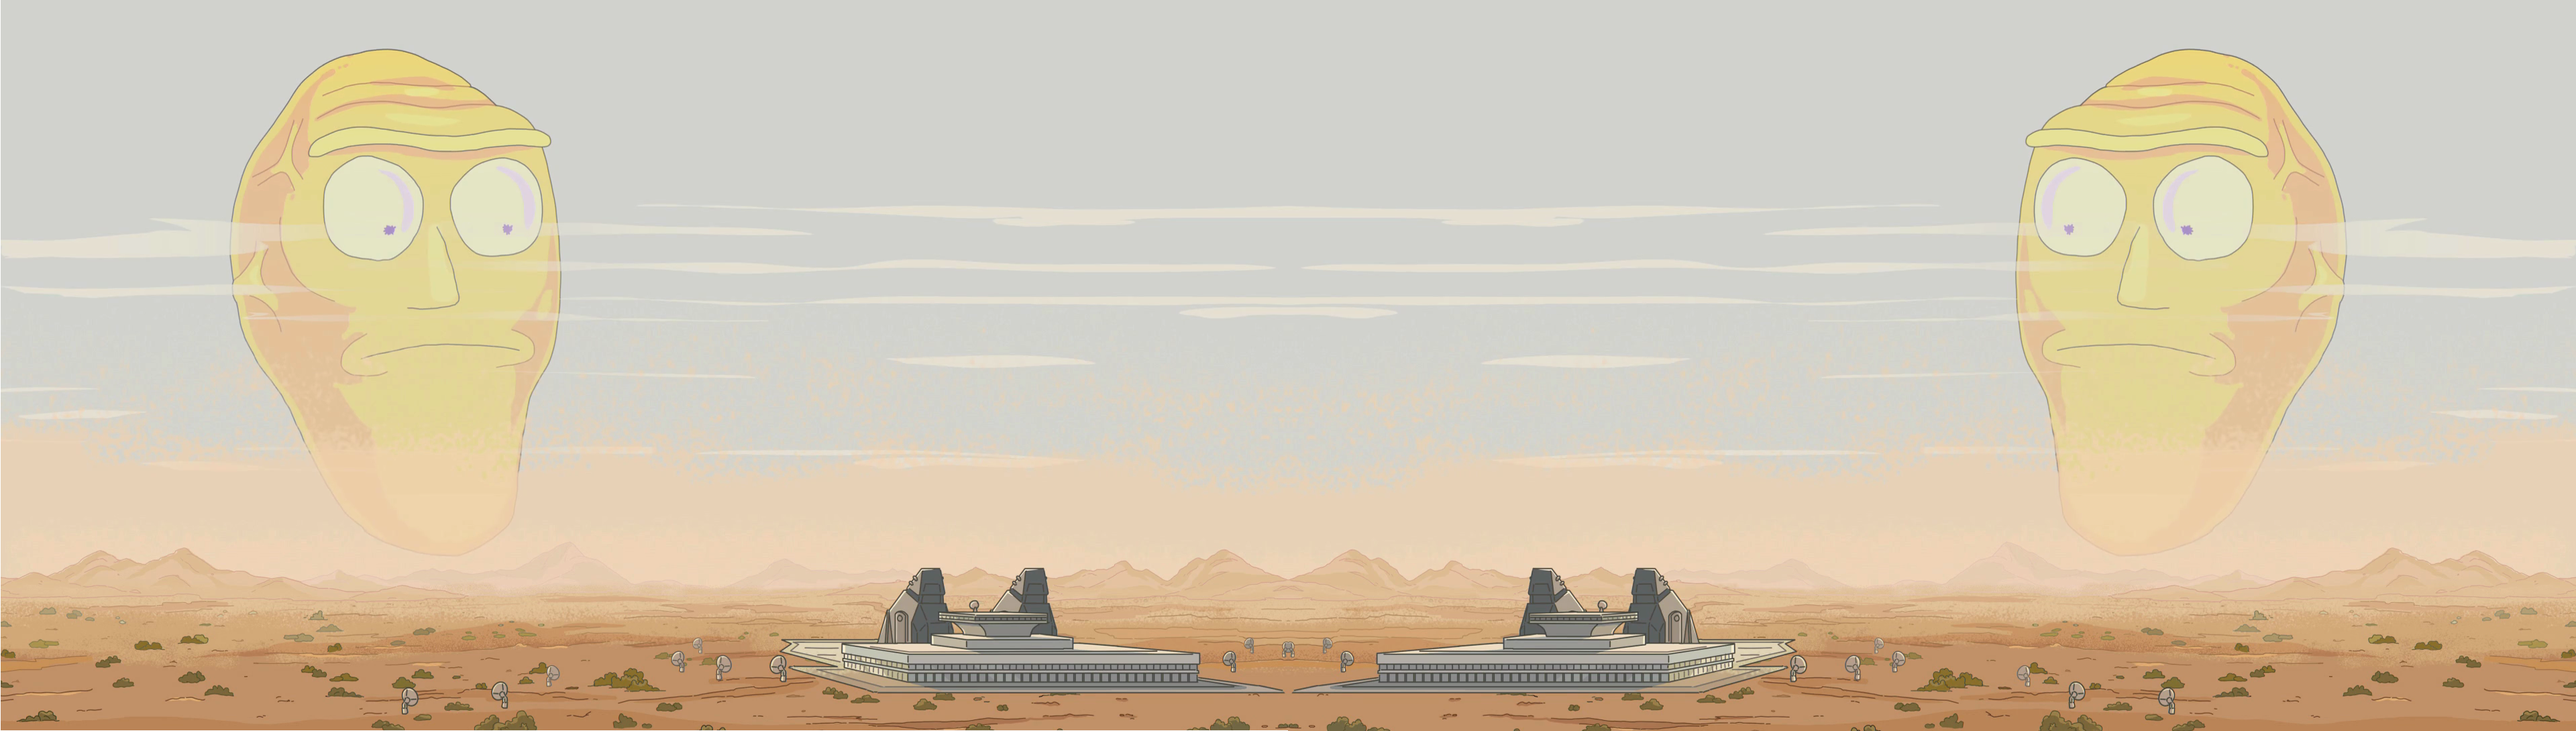
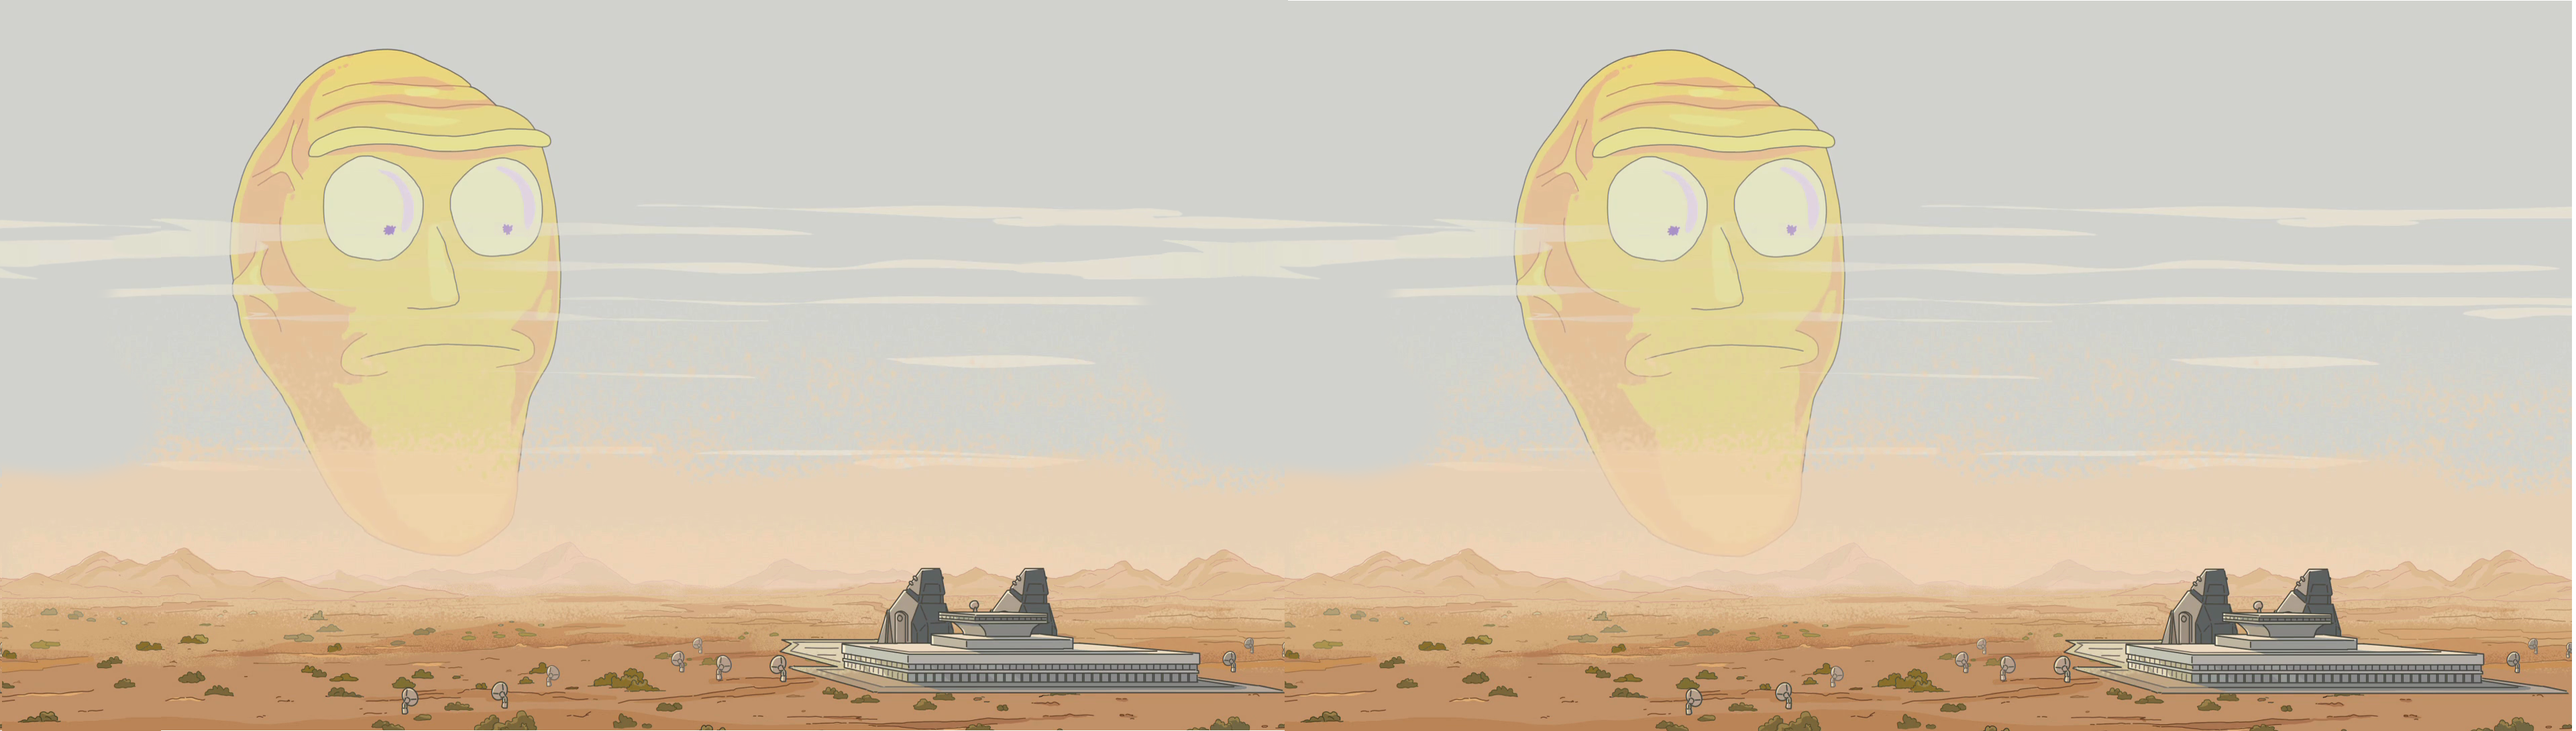
modified images to make them smoother

diff --git a/my_runner_main.c b/my_runner_main.c
@@ -94,8 +94,10 @@ int main()
     sf->rectGround.height = 960;
     sf->positionPlayer.x = 0;
     sf->positionPlayer.y = 400;
+    sf->positionSky.x = 0;
+    sf->positionSky.y = -50;
     sf->positionBackground.x = 0;
-    sf->positionBackground.y = 100;
+    sf->positionBackground.y = 50;
     sf->positionGround.x = 0;
     sf->positionGround.y = 130;
     sf->mvmtPlayer.x = 0.0;
@@ -122,6 +124,7 @@ int main()
     sfSprite_setPosition(sf->sprite, sf->positionPlayer);
     sfSprite_setPosition(sf->spriteBackground, sf->positionBackground);
     sfSprite_setPosition(sf->spriteGround, sf->positionGround);
+    sfSprite_setPosition(sf->spriteSky, sf->positionSky);
     sfSprite_setScale(sf->spriteSky, sf->scaleSky);
     sfSprite_setScale(sf->spriteBackground, sf->scaleBackground);
     sfSprite_setScale(sf->spriteGround, sf->scaleGround);
@@ -134,10 +137,9 @@ int main()
         if (sf->seconds > 0.08) {
             sfSprite_move(sf->sprite, sf->mvmtPlayer);
             check_position(sf);
-            move_rect_background(sf, 1, 120);
+            move_rect_background(sf, 1, 645);
             move_rect_ground(sf, 4, 720);
-            move_rect_sky(sf, 1, 4000);
-            //sfSprite_setPosition(sf->spriteBackground, sf->positionPlayer);
+            move_rect_sky(sf, 1, 1900);
             sfClock_restart(sf->clock);
         }
         sfRenderWindow_clear(sf->window, sfBlack);

diff --git a/include/my.h b/include/my.h
@@ -58,6 +58,7 @@ struct sfRunner {
     sfIntRect rectSky;
     sfVector2f positionPlayer;
     sfVector2f positionBackground;
+    sfVector2f positionSky;
     sfVector2f mvmtPlayer;
     sfVector2f positionTree;
     sfVector2f positionOver;
